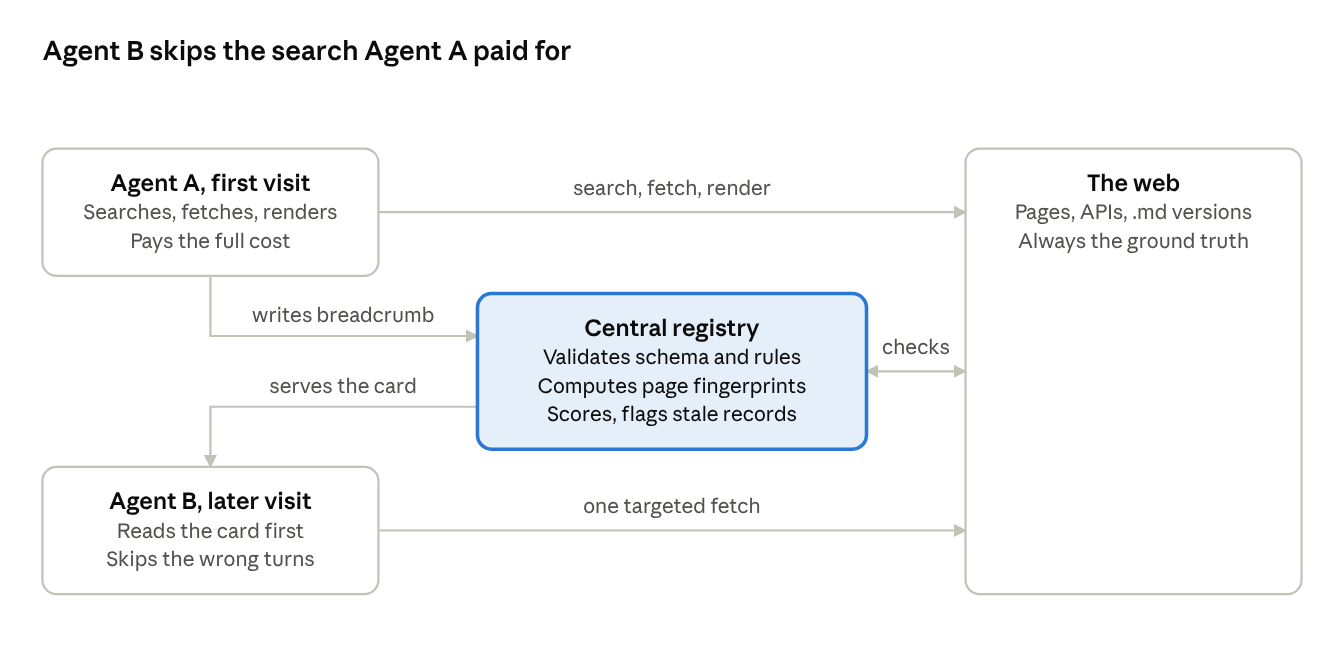
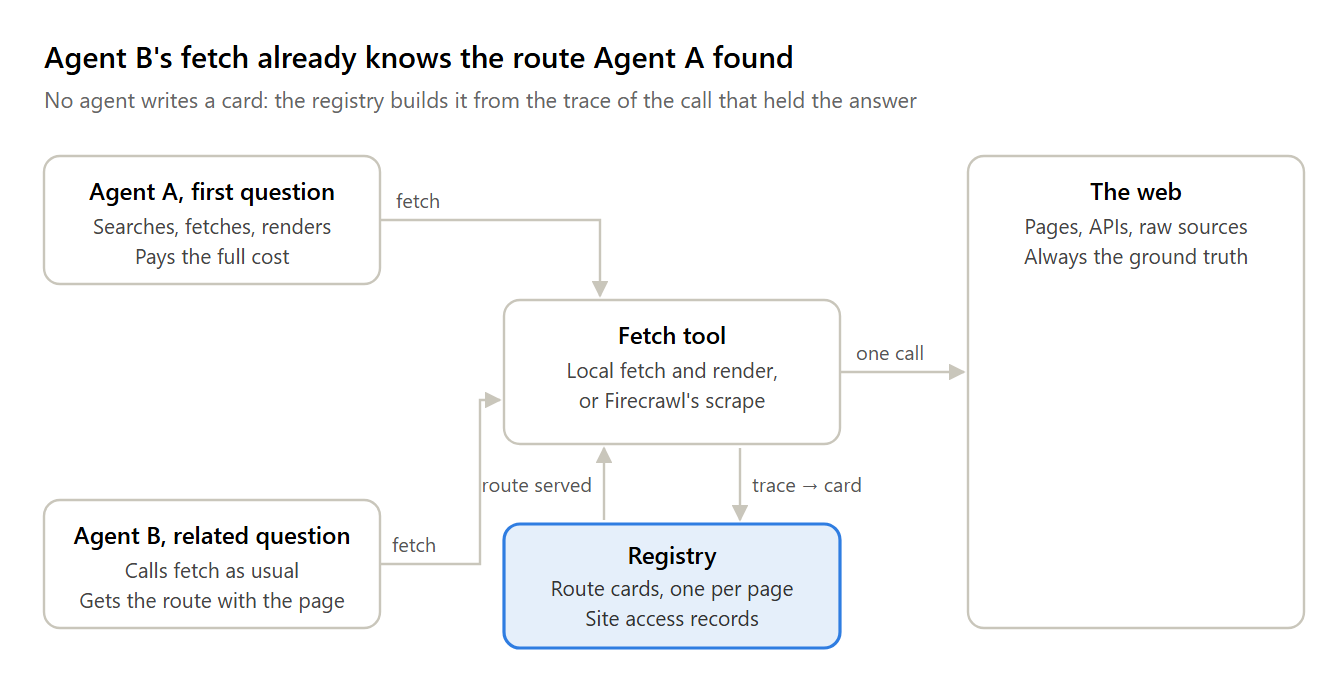
README and plan reflect the fair test's results so far
The README now leads with where the project stands: breadcrumbs pay on
hard-access multi-fetch tasks, lose on one-fetch pages and library docs,
break even against stock Firecrawl, and save about nothing on real
questions about popular docs. It covers the experiment harness and how
to run it.

PLAN.md gains a status summary, the curve-0.1, worth-0.1 and curve-0.2
results, the next step (where agents' waste repeats), and updated
decisions, risks and open questions. Both diagrams are redrawn: cards are
built from traces and served through fetch, and phase 2 is current.

diff --git a/docs/PLAN.md b/docs/PLAN.md
@@ -1,8 +1,10 @@
 # Agent Breadcrumbs Plan
 
-*Mirror of the shareable plan doc: [Agent Breadcrumbs Plan](https://claude.ai/artifact/4NE5HAUh1WMnhhWoNZzNrP). The doc is the source of truth; this copy was exported on 2026-10-26.*
+*Mirror of the shareable plan doc: [Agent Breadcrumbs Plan](https://claude.ai/artifact/4NE5HAUh1WMnhhWoNZzNrP). The doc is the source of truth; this copy was last synced on 2026-11-17. The experiment log, [experiment/LOG.md](../experiment/LOG.md), has every result in full.*
 
-Agents that read a web page leave a short, structured breadcrumb in a central registry, so the next agent can skip the searching, wrong turns and failed fetches. This plan covers the standard, how it is tested, and the path to a working registry. The immediate next step is a small experiment proving breadcrumbs make getting site data measurably cheaper.
+Agents that read a web page leave a short, structured breadcrumb in a central registry, so the next agent can skip the searching, wrong turns and failed fetches. This plan covers the standard, how it is tested, and the path to a working registry.
+
+**Where it stands (2026-11-17).** The fair test (phase 2) has run about 40 iterations. Breadcrumbs pay on hard-access sites and multi-fetch tasks (−21% to −41% on a related question, in dollars) and lose a little on one-fetch pages and library docs. Route cards built from a run's trace save as much as agent-written ones with no write cost, and the lookup is folded into the fetch tool. On Firecrawl a hit saves about half a task, but hits are rare. On real Stack Overflow questions about popular docs (GitHub Actions, MDN), a card gives a useful hit about 1 question in 100: agents already reach the right page and anchor for about $0.03. The next step is to find where agents waste spend on real questions, and whether that waste repeats across questions on a site; a shared registry only makes sense where it does.
 
 ## Problem and idea
 
@@ -76,16 +78,18 @@ The shape of the standard is settled; scoring numbers wait for test data.
 | Depth growth and L3 outline | Demand-driven depth; L3 for long or hard pages | Proposed |
 | Core of the L1 card | A route (the cheapest way to get the page's content), not a section map | Decided: section maps failed the bar in map-0.1; route cards cleared it from route-0.1 |
 | Card source | L1 route cards are built by the registry from one run's fetch trace, not written by agents; agents write site records only (not yet shown to pay) | Decided (2026-11-10): trace cards match agent cards with no write cost; pooling traces didn't change them (trace-0.3) |
-| Fetch tools | Any: cards are built from and served to whatever tool the agent fetches with; Firecrawl is the first adapter after the local fetch tool | Proposed (2026-11-10); on Firecrawl, cards save what they save locally but only tie a stock Firecrawl agent (firecrawl-0.1); in front of stock's scrape, a served section saves about half but only 1 task in 9 hits one (card-0.1/0.2). Firecrawl work continues (card-0.3) before the main effort is placed |
+| Fetch tools | Any: cards are built from and served to whatever tool the agent fetches with; Firecrawl is the first adapter after the local fetch tool | Proposed (2026-11-10); on Firecrawl, cards save what they save locally but only tie a stock Firecrawl agent (firecrawl-0.1); in front of stock's scrape, a served section saves about half but only 1 task in 9 hits one (card-0.1/0.2) |
+| Section cards on popular docs | Stopped: on real questions a useful hit is about 1 in 100 on GitHub Actions and MDN | Decided (2026-11-11, curve-0.2) |
+| Where to test next | Real questions on long-tail, JavaScript-heavy, API-only and recently changed sites, measuring the expensive tail and whether its waste repeats per site | Proposed (2026-11-11) |
 | Scoring weights and decay | — | After testing |
 | Business model | Tiered subscription: each tier grants token credits spent on breadcrumb reads; agents earn credits by contributing and confirming breadcrumbs | Decided (2026-11-05); prices and earn rates later |
 | Site-owner role | Minimal, if any: no owner-verified records and no owner-written content | Decided (2026-11-05) |
 
 ## How it works
 
-![Agent B skips the search Agent A paid for](img/how-it-works.png)
+![Agent B's fetch already knows the route Agent A found](img/how-it-works.png)
 
-The first agent pays the full cost and leaves a breadcrumb; the registry validates, fingerprints and scores it; later agents read it and go straight to the right page.
+The first agent pays the full cost. The registry builds a route card from the trace of the call that held the answer, so no agent writes one; agents write only site access records, and only when a fetch shows an access route (an API, a raw source). A later agent calls fetch as usual, and the fetch tool, local or Firecrawl, serves the page's route in its reply. The registry still validates, fingerprints and scores records before they are served.
 
 ## The breadcrumb standard
 
@@ -245,7 +249,7 @@ Different kinds of agent work waste effort in different places, so each benefits
 | Monitoring changes | Prices, changelogs, status pages | Re-locating the value each check | L1 card + fingerprint |
 | Logged-in or transactional tasks | Booking, account pages | Personal flows | Out of scope (public pages only) |
 
-The first three rows are where the measurements showed the largest waste, so the experiment starts there.
+The first three rows are where the measurements showed the largest waste, so the experiment started there. Results so far (LOG): hard-to-access sites pay most (−21% to −41% on a related multi-fetch question); coding agents on library docs lose (+8-9%, probe-0.1); docs fact lookup pays on hand-written multi-fetch tasks but not on real questions about popular docs, where agents already find the page (curve-0.1, worth-0.1, curve-0.2).
 
 ## Short-term execution plan
 
@@ -331,7 +335,11 @@ Firecrawl's scrape returns whole pages (the redis SET page is about 14k tokens, 
 
 The decision follows from those runs. If matching lifts hits well above 1 task in 9 and a served section still saves about half, Firecrawl stays a main track: it is where most agents fetch from and where a stock agent already does well. If hits stay rare, or sections found for one question mislead on the next, a card on Firecrawl is a per-hit add-on and the main effort moves back to the local fetch, starting with fold-0.1's write-up (`out_fold-0.1/`).
 
-**Hit rate on real questions (hitrate-0.1, LOG 2026-11-11): low, and not because of the backend.** 398 Stack Overflow questions whose answers link to gha, MDN, git and nginx docs, scored offline as if each earlier question had left a trace card. After 75 earlier questions per site, the stored section holds a later question's answer for 2-3% of gha questions with one card per page, and 10% with every section pooled; elsewhere 0-2%. A live check on 11 gha questions seemed to find agents mostly reading Stack Overflow, but those runs could see the answer's Stack Overflow id (task ids sit in the agent's working directory). **Corrected by reach-0.2 (LOG 2026-11-11):** with opaque ids, on 35 real questions the site's docs are the first scrape in 16 runs and carry 61 of 93 credits; Stack Overflow is first in 1, and 7 runs answer from search alone. So docs-page cards are reached, and keying cards by the pages agents actually reach (option 1) is what trace cards already do. The offline numbers above rest on guessed start pages that match the real first scrape about half the time, so they are a model, not a measurement. Next: a hit-rate curve from real traces on one site.
+**Hit rate on real questions (hitrate-0.1, LOG 2026-11-11): low, and not because of the backend.** 398 Stack Overflow questions whose answers link to gha, MDN, git and nginx docs, scored offline as if each earlier question had left a trace card. After 75 earlier questions per site, the stored section holds a later question's answer for 2-3% of gha questions with one card per page, and 10% with every section pooled; elsewhere 0-2%. A live check on 11 gha questions seemed to find agents mostly reading Stack Overflow, but those runs could see the answer's Stack Overflow id (task ids sit in the agent's working directory). **Corrected by reach-0.2 (LOG 2026-11-11):** with opaque ids, on 35 real questions the site's docs are the first scrape in 16 runs and carry 61 of 93 credits; Stack Overflow is first in 1, and 7 runs answer from search alone. So docs-page cards are reached, and keying cards by the pages agents actually reach (option 1) is what trace cards already do. The offline numbers above rest on guessed start pages that match the real first scrape about half the time, so they are a model, not a measurement.
+
+**Hit rate from real traces (curve-0.1, worth-0.1, curve-0.2; LOG 2026-11-11): about 1 in 100 on popular docs.** All 99 gha questions were run once on the local fetch with no registry ($3.60), trace cards built from each run, and later runs scored against the cards earlier ones left. After 75 earlier runs a pooled card (every seed's section kept) seemed to serve the right section to 12%, twice one card per page. A live run priced those hits (worth-0.1, 168 runs): cards were rarely served, because the agent asks for the section itself on its first fetch, and a card applies only to a plain fetch. With the scorer fixed to count a hit only where the run would have read more than the section, gha comes to **1%** (redundant 12%, wrong 18%, miss 59%). The one real hit saves about half its run. On MDN (100 questions, $3.27), 91% of later questions meet no card at all after 75, because questions spread over a long tail of pages, and routing, MDN's value on the hand-written tasks, comes to 0%. Median runs cost $0.03-0.04 with no expensive tail. So section and route cards on popular docs save about nothing on real questions, and that track stops; git and nginx were not run.
+
+**Next: where agents waste spend (proposed 2026-11-11).** Stock runs on real questions from long-tail, JavaScript-heavy, API-only and recently changed sites: measure the expensive tail, and whether its waste repeats across questions on a site. The hard-set results say breadcrumbs pay where a run is expensive and the route is reusable; this decides whether that case is common enough for a product. Carried over: merge alias URLs in card keys; fold-0.1's write-up on the local fetch (`out_fold-0.1/`); a truly cold baseline per setup.
 
 **Firecrawl `/agent` is out of scope (2026-11-10).** `/agent` runs its own search loop on Firecrawl's side, so the calling agent makes one call with or without breadcrumbs. A probe on two related questions (LOG, 2026-11-10) found a card hit routes around it, one 1-credit scrape against 6-8 credits and 11-37 s per run, but that only restates Firecrawl's own advice to scrape known URLs, and the questions were far easier than the deep tasks `/agent` is built for. Passing a card's URLs as `urls` narrows that search to a route recorded for another question, which on deep tasks risks confident wrong answers. Breadcrumbs could reach `/agent` only if Firecrawl used them itself.
 
@@ -339,7 +347,7 @@ The decision follows from those runs. If matching lifts hits well above 1 task i
 
 ![The registry is built only after the fair test proves savings](img/roadmap.png)
 
-No dates are set yet. The key gate is the second: if warm runs do not meet the savings criteria, the registry is reshaped or dropped before anything is built.
+No dates are set yet. The key gate is the second: if warm runs do not meet the savings criteria, the registry is reshaped or dropped before anything is built. As of 2026-11-17 the gate is met on hard-access sites but not on popular docs, so it now asks for savings on a class of sites where waste repeats across questions.
 
 ## Risks and mitigations
 
@@ -352,15 +360,16 @@ The two risks that could sink the project are poisoned records and a large incum
 | Stale breadcrumbs look current | Wrong answers delivered confidently | Registry fingerprints, staleness signals, fact expiry |
 | Copyright or terms-of-service complaints | Legal exposure, hostile site owners | Pointers and facts only, quote limits, public pages only, pointer-only records on paths that opt out via robots.txt or AI opt-out signals, no other owner role |
 | Providers will not contribute | Registry stays empty | MCP distribution; show token savings; free reads |
-| Savings smaller than measured | Weak value proposition | Fair test before building the registry; stop or reshape if criteria fail |
+| Savings smaller than measured | Weak value proposition; on real questions about popular docs this has happened (about 1 useful hit in 100) | Fair test before building the registry; narrow to site classes where waste repeats, or stop |
 | Writer spam or abuse | Low-quality records | Writer identity, rate limits, reputation per writer |
 
 ## Open questions
 
+- [ ] Is there a class of sites where agents' waste is large and repeats across questions (long-tail, JavaScript-heavy, API-only, recently changed)? This decides whether there is a product
 - [ ] Scoring weights: how fast trust decays, and how many confirmations make a fact reliable (after testing)
 - [ ] Route handling when a step page moves or its fingerprint changes: to test in the staleness trial (default: mark the route suspect; the next agent re-walks it and replaces the step)
 - [ ] Writer identity: how agents and providers authenticate, and how abuse is rate-limited
-- [ ] Tier selection: for now agents write only site records (once a fetch shows an access route) and L1 route cards (past a web-call bar, set by step 2 on 2026-11-07); L0, L2 and L3 are considered after that
+- [ ] Tier selection: for now L1 route cards are built from traces and agents write only site records (once a fetch shows an access route); L0, L2 and L3 are considered after that
 - [x] Confirm registry-computed fingerprints, and how often the registry re-fetches: decided, on demand (see Decisions)
 - [x] Business model: decided, a tiered subscription with token credits (see Decisions)
 - [x] Site-owner role: decided, minimal if any (see Decisions)

diff --git a/README.md b/README.md
@@ -1,44 +1,94 @@
 # Agent Breadcrumbs
 
-When an AI agent reads a web page, it leaves a short, structured note (a **breadcrumb**) in a central registry, so the next agent can skip the searching, wrong turns and failed fetches.
+**Can one AI agent's trip through a website make the next agent's trip cheaper?**
 
-![Agent B skips the search Agent A paid for](docs/img/how-it-works.png)
+When an agent answers a question from the web, it searches, fetches wrong pages, reads whole pages for one fact and fights JavaScript-only sites. A **breadcrumb** records the route that worked: which page, which section, which API or raw-source URL. The next agent that asks about that site starts from that route instead of from zero.
 
-- **Plan:** [docs/PLAN.md](docs/PLAN.md) — problem, measurements, landscape, use cases, test plan, short-term execution plan, roadmap, risks. Mirrors the shareable [plan doc](https://claude.ai/artifact/4NE5HAUh1WMnhhWoNZzNrP).
-- **Standard:** [docs/breadcrumb-standard.md](docs/breadcrumb-standard.md) — draft v0.2 of the record format.
+This repo is the research behind that idea: a draft record format, an experiment harness on Claude Code, and a log of about 40 measured iterations. It is not a product yet. The experiments are deciding whether there should be one.
 
-## Why
+## Where it stands (2026-11-17)
 
-Measured on six real pages, raw HTML was 718,845 tokens, the cleaned text 37,517, and hand-written breadcrumbs 682. On JavaScript-heavy sites a plain fetch returned almost nothing; knowing *how* to get the data (render it, use the API, keep only the right fields) was the biggest saving. Details in [PLAN.md](docs/PLAN.md#problem-and-idea).
+**Phase 2 of 5: the fair test.** The registry gets built only if breadcrumbs save money on questions people actually ask. So far:
 
-## Status
+| Where | What a breadcrumb saves | Verdict |
+| --- | --- | --- |
+| Hard-access sites, multi-fetch tasks (APIs, raw sources, JS-heavy pages) | **−21% to −41%** on a related question, in dollars | Pays, and is right 179 of 180 times |
+| 30 popular reference pages, all kinds | **−13% to −15%** over 10 reuses | Pays, below the plan's 30% bar |
+| One-fetch pages and library docs | **+7% to +18%** (the fixed cost of the tool text) | Loses |
+| Firecrawl, against a stock `firecrawl-mcp` agent | About **half a task** when a card is hit; 1 hit in 9 tasks | Break-even overall |
+| **Real Stack Overflow questions** on GitHub Actions and MDN docs | A useful hit **~1 question in 100** | **Nothing to save on popular docs** |
 
-Phase 1 (standard) in progress. Next: a viability experiment comparing agents with L1 route cards + site access records against agents with no breadcrumbs, on about 24 public-web tasks. See [Short-term execution plan](docs/PLAN.md#short-term-execution-plan).
+The last row changed the direction of the project. On 199 real questions, agents already find the right docs page, usually the right anchor, for about $0.03 a question. Cards keyed by page are rarely reached on a long-tail site like MDN, and where they are (GitHub Actions), the agent was already asking for the section the card would serve.
 
-Experiments run through Claude Code headless mode (`claude -p --output-format json`) on a Pro plan; no API key needed.
+**Next question:** where *do* agents waste money on the web? Stock runs on real questions about long-tail, JavaScript-heavy, API-only and recently changed sites, to find the expensive runs and check whether the same waste repeats across questions on a site. A shared registry only makes sense if it does.
+
+## What we've learned
+
+1. **Raw HTML is the wrong unit.** Six real pages: 718,845 tokens of raw HTML, 37,517 of cleaned text, 682 of hand-written breadcrumbs. Cleaning is a code job, not an AI job. On JS-heavy sites, knowing *how* to get the data (render it, call the API) saved the most.
+2. **Agents don't need to write breadcrumbs.** A route card built automatically from one run's trace saves as much on the next question as a card the agent wrote (−14% vs −15%), with no write cost. Agent writing only wins where the saving is a URL pattern (`cmdline-opts/{option}.md`) that only an agent would generalize.
+3. **The lookup belongs inside fetch.** A separate "check the registry" tool call costs about +5% median, nearly all of a typical card's saving. The fetch tool now reads the registry itself.
+4. **Firecrawl's `query` format already does most of what a card does.** A stock Firecrawl agent scrapes a URL it can guess and asks Firecrawl's model for the answer. Cards beat that only when they route somewhere the agent wouldn't guess.
+5. **Noise is a heavy tail.** Identical cards repeat within about 4% median. Now and then a reader misses the route and wanders, and one such run moves a group result by 10 points. Two reps don't separate arms that differ by less.
+6. **Task ids leak.** An agent could read a Stack Overflow answer id from its working directory, and 16 of 35 runs used it. New tasks use opaque ids.
+
+Every result above has its setup, runs and caveats in [experiment/LOG.md](experiment/LOG.md).
+
+## How it works now
+
+```mermaid
+flowchart LR
+    A["Agent, first question<br/>search, fetch, render"] -->|fetch tool| F["Fetch tool<br/>(local or Firecrawl)"]
+    F --> W["The web"]
+    F -. "trace of the call<br/>that held the answer" .-> R[("Registry<br/>route cards<br/>site access records")]
+    B["Agent, later question<br/>on the same page"] -->|fetch tool| F
+    R -. "route served<br/>inside the fetch reply" .-> F
+```
+
+- **Route card (L1):** for one page, the cheapest call that got its content: URL, section or offset, render or not, size. Built from traces; no agent writes it.
+- **Site access record:** for one site, how to get data at all: an API, a raw-source URL pattern, "needs rendering". Written by an agent only when a fetch shows such a route.
+- The record format is [docs/breadcrumb-standard.md](docs/breadcrumb-standard.md) (draft v0.2); JSON Schemas are in [experiment/schema/](experiment/schema/).
+
+## Documents
+
+- [experiment/LOG.md](experiment/LOG.md): every iteration, newest at the bottom. **The most current source.**
+- [docs/PLAN.md](docs/PLAN.md): problem, landscape, decisions, test plan, roadmap, risks. Mirrors the shareable [plan doc](https://claude.ai/artifact/4NE5HAUh1WMnhhWoNZzNrP), last synced 2026-11-17.
+- [docs/breadcrumb-standard.md](docs/breadcrumb-standard.md): draft v0.2 of the record format.
+- [research/](research/): the token measurements, a library-docs probe ([report](research/knowledge-gap-probe-report.md)) and scripts for counting access failures in your own Claude Code transcripts.
 
 ## Layout
 
 ```
-docs/
-  PLAN.md                   full plan
-  breadcrumb-standard.md    draft standard v0.2
-  img/                      diagrams
+docs/                       plan, standard, diagrams
+experiment/
+  run.py                    harness: runs Claude Code headless on each task, logs cost and answers
+  report.py, rescore.py     tables in tokens, uncached tokens, dollars, output and peak context
+  tasks.yaml, tasks_head.yaml   hand-written tasks with answers checked at the source
+  bc/                       MCP servers: fetch/render with the registry folded in, the registry,
+                            a Firecrawl backend and a card wrapper around stock firecrawl-mcp
+  hitrate/                  398 real Stack Overflow questions on 4 docs sites, and the hit-rate scorer
+  schema/                   JSON Schemas for site records and L1 page cards
+  out_<iteration>/          drivers and report scripts per iteration (run data is not committed)
 research/
   measurements/             pages and token counts from 2026-10-21
-    pages/, clean/            static pages: raw HTML, cleaned Markdown
-    pages_md/                 sites' own .md versions (Stripe .md page, Firecrawl raw README)
-    crumbs/                   hand-written sample breadcrumbs, in the informal pre-v0.2 format
-                              they were measured in; not valid v0.2 records
-    js_static/, js_rendered/  JavaScript-heavy pages: plain fetch vs headless Chrome
-    *_clean/                  cleaned versions of the above
-    formats/                  breadcrumb format comparison
-  scripts/                  token-counting scripts
+  probe/                    library-docs questions for the knowledge-gap probe
+  scripts/                  token counting, access-failure and concentration scripts
 ```
 
-Snapshots of third-party pages under `research/measurements/` are kept only to reproduce the token counts; they belong to their owners.
+## Running it
 
-## Reproducing the measurements
+Experiments run through Claude Code headless mode (`claude -p --output-format json`) on a Pro plan, so no API key is needed. Firecrawl backends need a `FIRECRAWL_API_KEY`.
+
+```
+cd experiment
+python run.py verify                              # re-check every task's answer at its source
+python run.py cold-nowrite --set hard --rep 1     # no-breadcrumb baseline
+python run.py warm-related-nowrite --set hard     # related question with the cold run's registry
+python run.py --help                              # all conditions, iterations and backends
+```
+
+Iteration names (`miss-0.13`, `trace-0.2`, `card-0.4`, …) are listed with what each changed at the top of the [log](experiment/LOG.md); `--iteration <name> --out out_<name>` reruns one.
+
+To reproduce the token measurements:
 
 ```
 pip install tiktoken trafilatura markdownify beautifulsoup4
@@ -47,8 +97,6 @@ python research/scripts/count.py research/measurements/crumbs research/measureme
 python research/scripts/formats.py
 ```
 
-Token counts use OpenAI's `o200k_base` tokenizer as an approximation of Claude's.
+Token counts use OpenAI's `o200k_base` tokenizer as an approximation of Claude's; experiment results are reported in dollars, which a Pro plan meters roughly in step with ([LOG, meter-0.1](experiment/LOG.md)).
 
-## Related
-
-[`llmstxt-research`](../llmstxt-research) (local) studies better llms.txt files for developer docs; its `FUTURE_IDEAS.md` discusses a central llms.txt registry with overlapping risks.
+Snapshots of third-party pages under `research/measurements/` are kept only to reproduce the token counts; they belong to their owners.
